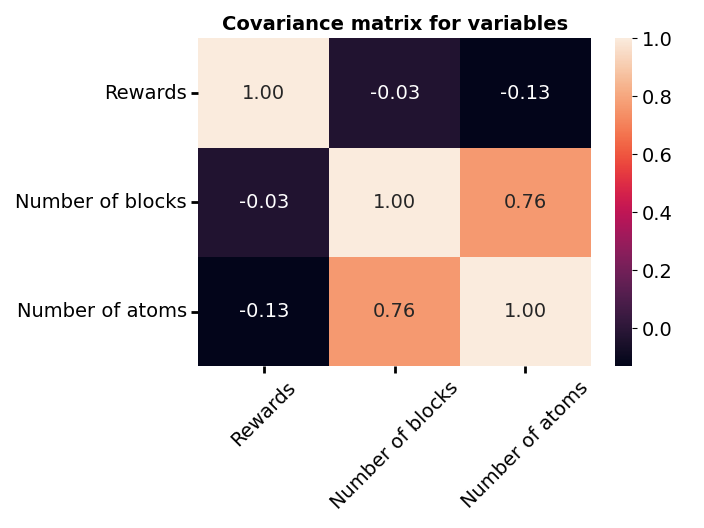
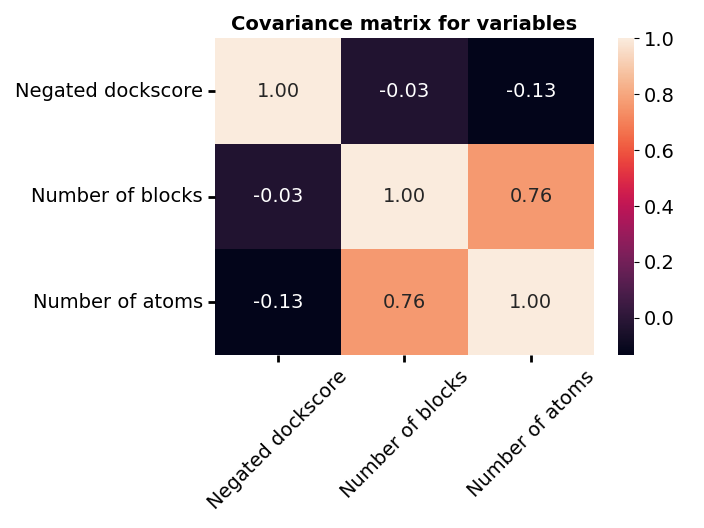
updated covariance plot

diff --git a/src/utils/plots.py b/src/utils/plots.py
@@ -1057,11 +1057,11 @@ def make_covariance_matrix_plot():
     for name in columns[2:]:
         df.loc[:,name] = df[name].apply(json.loads)
 
-    dockscore = np.array(df.dockscore, dtype=np.float64)
     
-    # compute all rewards from data and normalize
-    rewards = 4 - (dockscore - (-8.6)) / 1.1
-    normalized_rewards = (rewards - np.mean(rewards)) / np.std(rewards)
+    
+    # compute negated dockscore from data and normalize
+    negated_dockscore = -1 * np.array(df.dockscore, dtype=np.float64)
+    normalized_dockscore = (negated_dockscore - np.mean(negated_dockscore)) / np.std(negated_dockscore)
     
     # compute blocksizes and normalize
     blocksizes = np.array([len(bidx) for bidx in df.blockidxs])
@@ -1071,7 +1071,7 @@ def make_covariance_matrix_plot():
     atomsizes = np.array([s[-1] for s in df.slices])
     normalized_atomsizes = (atomsizes - np.mean(atomsizes)) / np.std(atomsizes)
 
-    cov = np.cov([normalized_rewards,normalized_blocksizes,normalized_atomsizes])
+    cov = np.cov([normalized_dockscore,normalized_blocksizes,normalized_atomsizes])
 
     fig, ax = plt.subplots(figsize=(6.4*1.1,4.8*1.1))
 
@@ -1083,7 +1083,7 @@ def make_covariance_matrix_plot():
     cbar.ax.tick_params(labelsize=fontsize)
 
     pos = [0.5,1.5,2.5]
-    labels = ["Rewards","Number of blocks", "Number of atoms"]
+    labels = ["Negated dockscore","Number of blocks", "Number of atoms"]
 
     ax.set_xticks(pos,labels,rotation=45)
     ax.set_yticks(pos,labels,rotation=0)
